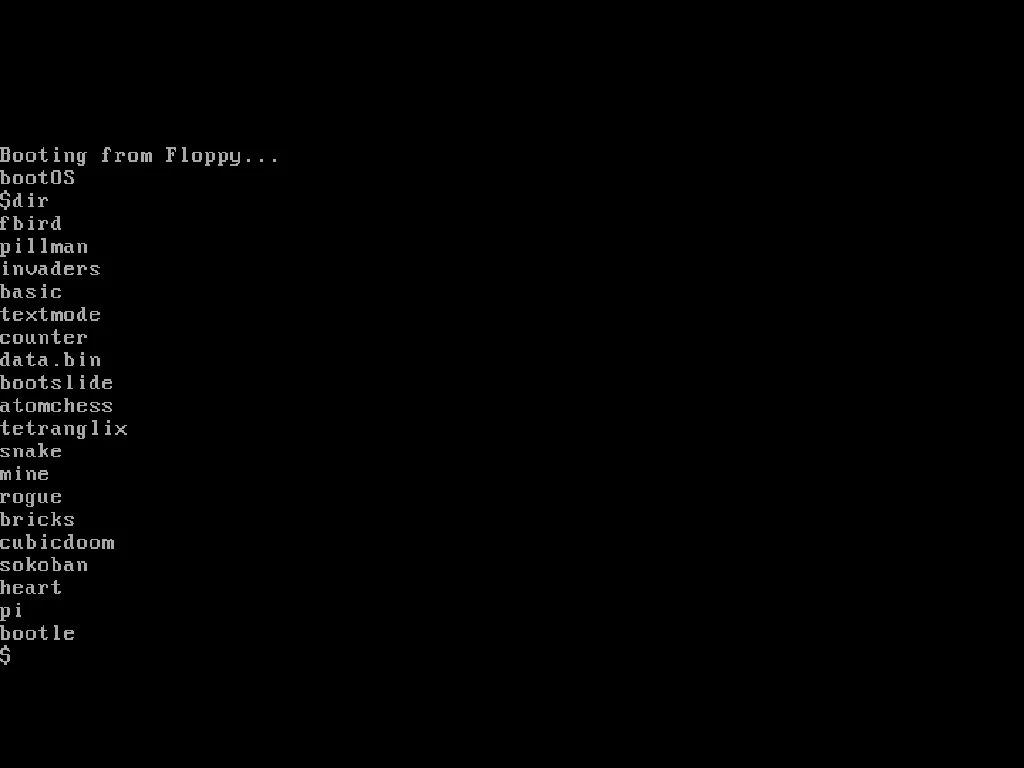
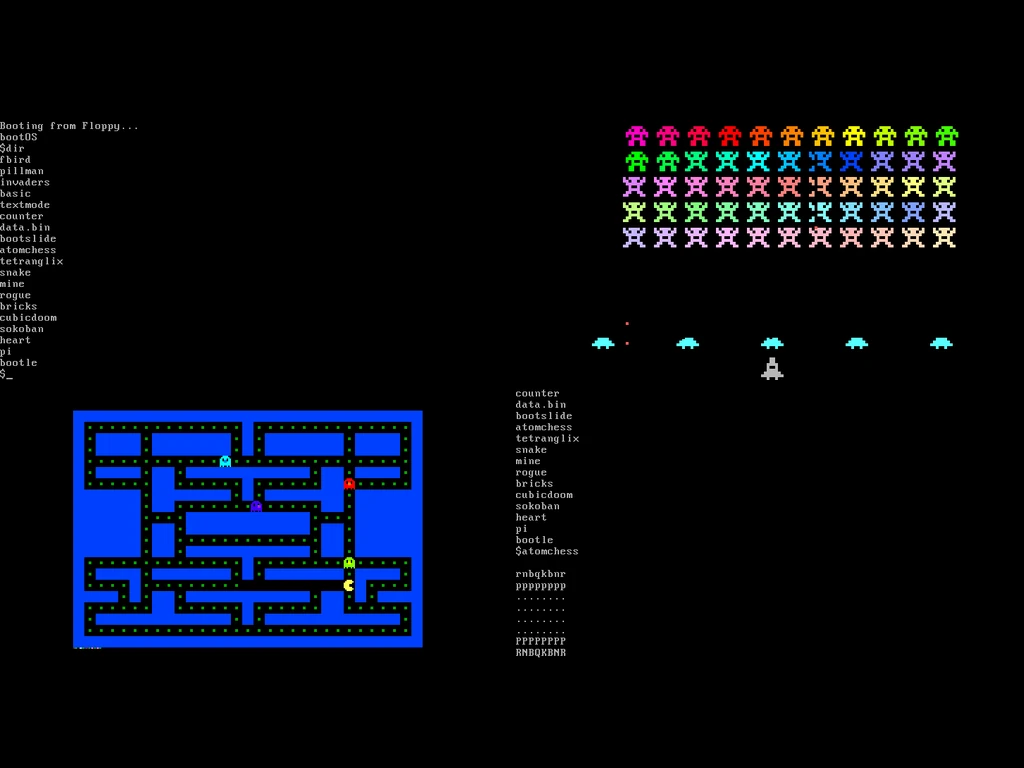
bootos: poster, real-frame hero, scene + keyboard wiring, and a type-in demo that actually finishes
The bootos-spa stream of the bootOS wave (docs/lab/BOOTOS-WAVE.md).

Poster + images
- registry/posters/bootos.md: real prose in the house style (Origins /
  Significance / What you're looking at / Legacy), facts from the pinned
  upstream README and os.asm header only; points visitors at `dir`, running a
  program by name, Ctrl+Alt+Del, and `enter` for hex type-ins.
- spa/public/posters/bootos/: desktop.webp (2x2 of real framebuffer frames:
  `dir`, invaders, pillman, atomchess), plus dir/invaders/hello.webp, all
  1024x768 letterboxed from 720x400 / 640x400 screendumps of a sandbox QEMU
  running the staged osall.img. hello.webp is the type-in demo's proof frame.
  (pillman.webp captured too; not referenced by the poster yet.)

Scene + keyboard (hand-managed TS)
- assembliesByTile.ts: bootos after amix (registry lineup order) as an
  XT-class pizzaBoxA|crtA|keyboardD desk with NO mouse — the station has no
  pointer device; the cable code already tolerates a mouse-less assembly.
- machineIdentity.ts: 'XT 8088' / 'FLOPPY • 2019', office90 kit, registry accent.
- keyboardProfiles.ts: bootos -> 'dos' (its rows lead with Ctrl+Alt+Del, the
  way home from a boot-sector game).

Type-in demo, fixed at the root
bootOS's `enter` reads hex lines until it receives an EMPTY line (os.asm
enter_command: `cmp byte [si],0 / je os20`), so the listing needs a bare
ENTER between the last hex line and the `*` name prompt. The validator
refused blank lines and the typist could not send one.
[…]

diff --git a/spa/src/ui/grid/StreamView/typeDemoProgram.ts b/spa/src/ui/grid/StreamView/typeDemoProgram.ts
@@ -107,10 +107,17 @@ export async function typeDemoProgram({
   const charMs = perCharMs === DEMO_PER_CHAR_MS ? (program.perCharMs ?? perCharMs) : perCharMs;
   for (const line of program.lines) {
     if (cancelled()) return false;
-    handle.typeText(applyKeyboard(line, keyboard));
-    // Long enough for the whole line to have actually reached the guest.
-    await sleep(Math.max(delayMs, line.length * charMs));
-    if (cancelled()) return false;
+    // An EMPTY line is a bare ENTER: nothing to type, so no per-line pace
+    // either -- the ENTER below is the whole line. bootOS's `enter` command
+    // reads hex lines until it gets one, and the registry validator admits
+    // exactly '' for it (never whitespace, which would type as nothing but
+    // read as content).
+    if (line.length > 0) {
+      handle.typeText(applyKeyboard(line, keyboard));
+      // Long enough for the whole line to have actually reached the guest.
+      await sleep(Math.max(delayMs, line.length * charMs));
+      if (cancelled()) return false;
+    }
     // ENTER commits the line; give the guest time to tokenise it before the
     // next character arrives.
     handle.typeText('\n');

diff --git a/spa/src/ui/grid/StreamView/typeDemoProgram.test.ts b/spa/src/ui/grid/StreamView/typeDemoProgram.test.ts
@@ -93,6 +93,25 @@ describe('typeDemoProgram', () => {
     expect(r.typed).toEqual(['10 MODE 1']);
   });
 
+  it('sends a bare ENTER for an empty line and never types an empty string', async () => {
+    // bootOS's `enter` command reads hex lines until it receives an EMPTY one,
+    // so a listing that types a program must be able to say "just ENTER here".
+    const hex: DemoProgram = {
+      label: 'x',
+      lines: ['enter', 'cd 20', '', 'nop'],
+      runCommand: 'nop',
+    };
+    const r = recorder();
+    await typeDemoProgram({
+      program: hex, handle: r.handle, sleep: r.sleep,
+      delayMs: 42, enterDelayMs: 99, perCharMs: 0,
+    });
+    expect(r.typed).toEqual(['enter', '\n', 'cd 20', '\n', '\n', 'nop', '\n', 'nop']);
+    expect(r.typed).not.toContain('');
+    // The empty line costs only the post-ENTER settle: there was nothing to pace.
+    expect(r.waits).toEqual([42, 99, 42, 99, 99, 42, 99, 0]);
+  });
+
   it('is content-agnostic: any listing length works', async () => {
     const long: DemoProgram = {
       label: 'x',

diff --git a/spa/src/scene/assembliesByTile.ts b/spa/src/scene/assembliesByTile.ts
@@ -489,5 +489,15 @@ export const ASSEMBLIES_BY_TILE = {
     kind: 'pizzaBox', body: 'pizzaBoxD', monitor: 'crtC',
     keyboard: 'keyboardA', mouse: 'paramMouseA',
   },
+  // bootos: 8088-compatible on purpose, so the exhibit is an XT-class desktop
+  // box — pizzaBoxA, the same wide beige case msdoswin1 sits in, but under
+  // crtA rather than msdoswin1's green-mono crtD (bootOS boots in colour VGA
+  // text mode) with the keyboardD XT board. NO mouse: bootOS reads the BIOS
+  // keyboard and nothing else, and the station has no pointer device, so the
+  // desk is honest about it. pizzaBoxA|crtA|keyboardD|none is unique.
+  bootos: {
+    kind: 'pizzaBox', body: 'pizzaBoxA', monitor: 'crtA',
+    keyboard: 'keyboardD',
+  },
 } as const satisfies Record<string, Assembly>;
 

diff --git a/spa/src/scene/machineIdentity.ts b/spa/src/scene/machineIdentity.ts
@@ -435,6 +435,14 @@ export const EXHIBIT_IDENTITIES = {
     caseTint: '#c6c8ca', accentTint: '#64748b', tintMix: 0.3,
     badge: 'x86-64 PC', spec: 'x86-64 • ravynOS 0.6.1 • 2025', kit: 'modern',
   },
+  // bootos: an XT-class beige box (the OS is 8088-compatible by design) in
+  // msdoswin1's warm case beige, with the registry's pale-blue accent. The
+  // badge names the CPU class the code targets; the spec names the only
+  // storage it has and the year it was written, four decades after the XT.
+  bootos: {
+    caseTint: '#c2ad83', accentTint: '#8ecae6', tintMix: 0.4,
+    badge: 'XT 8088', spec: 'FLOPPY • 2019', kit: 'office90',
+  },
 } as const satisfies Record<keyof typeof ASSEMBLIES_BY_TILE, ExhibitIdentity>;
 
 const FALLBACK_IDENTITY: ExhibitIdentity = {

diff --git a/spa/src/ui/keyboard/keyboardProfiles.ts b/spa/src/ui/keyboard/keyboardProfiles.ts
@@ -300,6 +300,9 @@ export const OS_FAMILY: Record<string, Family> = {
   amstradcpc: 'generic',
   mpf2: 'generic', // BASIC prompt only; no shell chords to profile
   freedos: 'dos', msdoswin1: 'dos',
+  // bootOS: a bare `$` prompt over BIOS int 16h; the dos rows lead with
+  // Ctrl+Alt+Del, which is the way home from a boot-sector game.
+  bootos: 'dos',
   os2warp: 'os2',
   solaris: 'suncde',
   // IRIX 6.5 under 4Dwm. Motif-derived like CDE, but the suncde profile's rows

diff --git a/spa/src/data/demoPrograms.ts b/spa/src/data/demoPrograms.ts
@@ -53,6 +53,7 @@ const DEMO_PROGRAMS = {
       "bb 17 7c 8a 07 84 c0 74 0c 53 b4 0e bb 0f 00 cd",
       "10 5b 43 eb ee cd 20 48 65 6c 6c 6f 2c 20 77 6f",
       "72 6c 64 0d 0a 00",
+      "",
       "hello"
     ],
     "runCommand": "hello",

diff --git a/scripts/stations_registry/validate_schema.py b/scripts/stations_registry/validate_schema.py
@@ -141,5 +141,14 @@ def validate_schema_shape(rows: list[dict[str, Any]], errors: list[str]) -> None
             if not demo.get("label", "").strip() or not demo.get("runCommand", "").strip():
                 fail(errors, row, "demoProgram needs a non-empty label and runCommand")
             lines = demo.get("lines", [])
-            if not lines or any(not isinstance(line, str) or not line.strip() for line in lines):
-                fail(errors, row, "demoProgram.lines must be a non-empty list of non-blank strings")
+            # An EMPTY string is a legal line: the typist sends a bare ENTER for it,
+            # which is how bootOS's `enter` command is told the hex listing is over.
+            # Whitespace-only lines are still refused -- they type as nothing but
+            # look like content in the registry.
+            if not lines or any(not isinstance(line, str) or (line != "" and not line.strip()) for line in lines):
+                fail(
+                    errors,
+                    row,
+                    "demoProgram.lines must be a non-empty list of strings, each either "
+                    "non-blank or exactly '' (a bare ENTER)",
+                )

diff --git a/registry/posters/bootos.md b/registry/posters/bootos.md
@@ -4,9 +4,46 @@ subtitle: 2019 · an operating system in one 512-byte boot sector
 hero: /posters/bootos/desktop.webp
 images:
   - src: /posters/bootos/desktop.webp
-    alt: bootOS's 80x25 text screen after `dir` — the bootOS banner, a $ prompt, and the names of nineteen one-sector programs in grey on black
-    caption: PLACEHOLDER — the bootos-spa stream replaces this poster (prose and hero) before promotion.
+    alt: Four bootOS screens on black — top left the 80x25 text console after `dir`, listing nineteen program names in grey under the bootOS banner and a $ prompt; top right five rows of rainbow-coloured space invaders above a row of cyan shields and a grey cannon; bottom left a blue Pac-Man-style maze with dots, a yellow player and three ghosts; bottom right the atomchess board drawn in letters, rnbqkbnr and a row of p over dots over a row of P and RNBQKBNR
+    caption: Four one-sector programs from the exhibit's floppy — the shell's own `dir`, invaders, Pillman and Toledo Atomchess. Each of the three games fits in one 512-byte sector; so does the operating system that loaded it.
+  - src: /posters/bootos/dir.webp
+    alt: bootOS's text console straight after boot — SeaBIOS's "Booting from Floppy..." line, the bootOS banner, "$dir", and the nineteen file names fbird, pillman, invaders, basic, textmode, counter, data.bin, bootslide, atomchess, tetranglix, snake, mine, rogue, bricks, cubicdoom, sokoban, heart, pi and bootle, then a $ prompt with the caret
+    caption: The whole user interface. A $ prompt, five built-in commands, and a directory that can hold thirty-two names because that is how many 16-byte entries fit in one sector.
+  - src: /posters/bootos/invaders.webp
+    alt: The invaders game in 640x400 graphics mode — five rows of eleven aliens in a rainbow of colours, a small red shot in flight, five cyan shields, and a grey cannon at the bottom
+    caption: invaders, from the first book — a colour graphics-mode Space Invaders in 512 bytes. Its screen is 640 by 400, so on this exhibit it shows narrower than the 720-pixel text console.
+  - src: /posters/bootos/hello.webp
+    alt: The console after the type-in demo — the directory listing now ends with "hello", then "$hello", then "Hello, world" and a fresh $ prompt
+    caption: The type-in demo's result. `enter` took three lines of hex and an empty line, `*hello` named the file, `dir` shows it on the disk, and running it prints Hello, world through bootOS's int 0x22 output service.
 ---
 ## Origins
 
-PLACEHOLDER — written by the bootos-spa stream.
+bootOS was written by **Óscar Toledo Gutiérrez** — the Mexican programmer behind Toledo Nanochess and a string of prize-winning entries in the International Obfuscated C Code Contest — and the source file carries its own timeline: *creation date Jul/21/2019, 6pm–10pm*, a revision the next day for "optimization, corrections and comments", and a final one on 31 July that added a service table. It was published on 22 July 2019 under a BSD licence. It is an operating system, in the plain sense of the word, and it is 512 bytes long.
+
+Those 512 bytes are the boot sector of a floppy disk. The BIOS reads the first sector of the disk into memory at address 7C00 and jumps to it, exactly as it has done since the original IBM PC of 1981. bootOS uses that moment to copy itself out of the way to 7A00, needs 768 bytes of working memory just below that, and then treats the just-vacated 7C00 as the place it will load *other* boot sectors into. That is the whole architectural idea: a program for bootOS is anything that would run as a boot sector, and the operating system is a thing that loads boot sectors on request instead of only once at power-on.
+
+Because the machine it targets is the 8088 in that 1981 PC, the code is written for the 8086 instruction set — `cpu 8086` is the first directive in the file — and the disk layout is just as spare. The directory lives in the second sector of track 0: thirty-two entries of sixteen bytes, each holding a zero-terminated file name. Every file is one sector long, and its position in the directory is its address on the disk: the first name in the directory is stored at track 1, the second at track 2, up to track 32. Deleting a file means zeroing its sixteen-byte entry. There are no sizes, no dates, no attributes, no free-space map — there is no room for any.
+
+## Significance
+
+A 512-byte operating system is a stunt, and a good one, but bootOS is the centre of something larger. Toledo had already spent years in the *sizecoding* tradition of writing complete programs in a boot sector — Toledo Atomchess, a playable chess program in 512 bytes, is the best known — and he collected that work into two books, **Programming Boot Sector Games** and **More Boot Sector Games**, which teach 8086 assembly through exactly these programs: a number-guessing game, tic-tac-toe, a Mandelbrot set, F-Bird, invaders, Pillman, Atomchess, bootBASIC; then Follow the Lights, bootRogue, bricks, cubicDoom — and bootOS itself, the operating system written to give all of them a home.
+
+That gave the boot-sector scene something it had never had: a disk. Before bootOS, each of these games was its own floppy, one sector long and alone on the medium. With it, a single 720K disk can carry the operating system and thirty-two programs, list them by name and run any one by typing it. The README's own delighted heading says it: *"bootOS programs: (Oh yes! we have software support)"* — and then, a little further down, *"Also our first 3rd party programs!!!"*: bootSlide and tetranglix by XlogicX, snake by pmikkelsen, bootMine by io12, sokoban from ish.works. An operating system with an ecosystem, in half a kilobyte.
+
+The `enter` command is the other half of the argument. bootOS has no assembler, no editor and no compiler, but it can accept a program as lines of hexadecimal bytes typed at the keyboard, and save them as a file. The README shows the canonical example — three lines of hex, an empty line to finish, and the name `hello` — and this exhibit's type-in demo does exactly that. It is the same ritual as typing a machine-code listing out of a 1980s magazine, and it means that the system's whole software supply chain fits on the screen at once.
+
+## What you're looking at
+
+An 8088-compatible PC — under the exhibit, a KVM virtual machine with 64 MB it will never touch, one 720K floppy, standard VGA and a PC speaker — booting from that floppy. SeaBIOS prints *Booting from Floppy...*, bootOS prints its name, and you are at the `$` prompt in 80 by 25 text mode, 720 by 400 pixels. Everything on this screen comes from a program of at most 512 bytes.
+
+There is no mouse, because bootOS reads the BIOS keyboard and nothing else. Type **`dir`** and you get the directory: nineteen names on this disk. Type a name to run it. The Toledo games are all here — **fbird**, **pillman**, **invaders**, **basic** (bootBASIC, a tiny interpreter with its own `>` prompt), **atomchess**, **rogue**, **bricks**, **cubicdoom** (a first-person raycaster), **heart**, **pi** and **bootle** — with the third-party **bootslide**, **tetranglix**, **snake**, **mine** and **sokoban** alongside them, and a few small utilities: **textmode** clears the screen, and **counter** keeps a running tally in **data.bin**, which is the save-file service being exercised. Several of these need a 286 or better and bootMine wants a Pentium II's `rdtsc`; the emulated CPU is modern, so all of them run.
+
+A game that ends on its own comes back to the `$` prompt through bootOS's int 0x20. One that does not is left with **Ctrl+Alt+Del**, which warm-boots the floppy and puts bootOS back in a second. The other four commands are **`ver`**, **`del name`**, **`format`** (which you should not run: it wipes the directory) and **`enter`**. The stage menu's *Type in a hello-world program* runs the README's example for you: `enter`, three lines of hex at the `h` prompt, an empty line to say the listing is over, `hello` at the `*` prompt to name it, and `hello` to run it. Note the empty line — `enter` reads hex until it receives one.
+
+The floppy is real, in the sense that `enter` and `del` write to it. It is also restored when the exhibit resets, so anything you type in belongs to your visit.
+
+## Legacy
+
+The hall's other PCs all begin the same way — a BIOS reads one sector off a disk — and then spend that sector loading something bigger: DOS, Windows, a Linux kernel, TempleOS's own loader. bootOS is the one machine here that stops at the first sector and calls it done. It is the smallest operating system in the building by a wide margin, and the only one that is exactly the size of the sector the BIOS loads.
+
+Its afterlife is the scene it organises. Boot-sector games keep appearing, the two books remain the standard introduction to writing them, and a fork by laura240406 runs bootOS from a USB stick. The disk in this exhibit is Toledo's own `osall.img` from the project's repository; its programs load at 7C00 the way the BIOS would have loaded them, which is the point of the design, and the reason a 2019 operating system can be exhibited on the class of machine IBM shipped in 1981.
